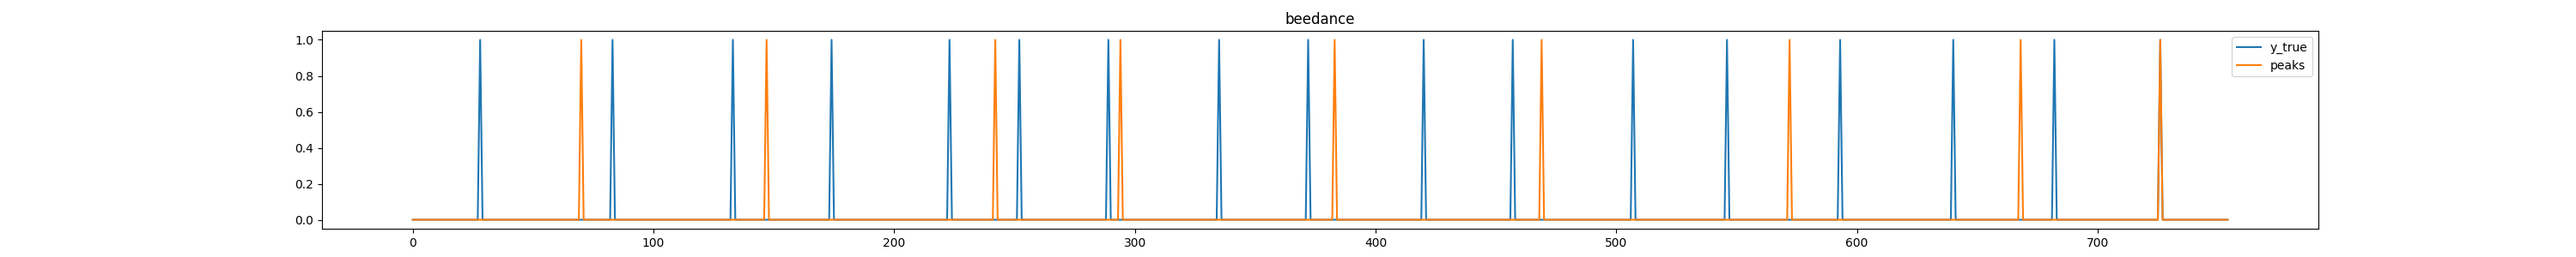
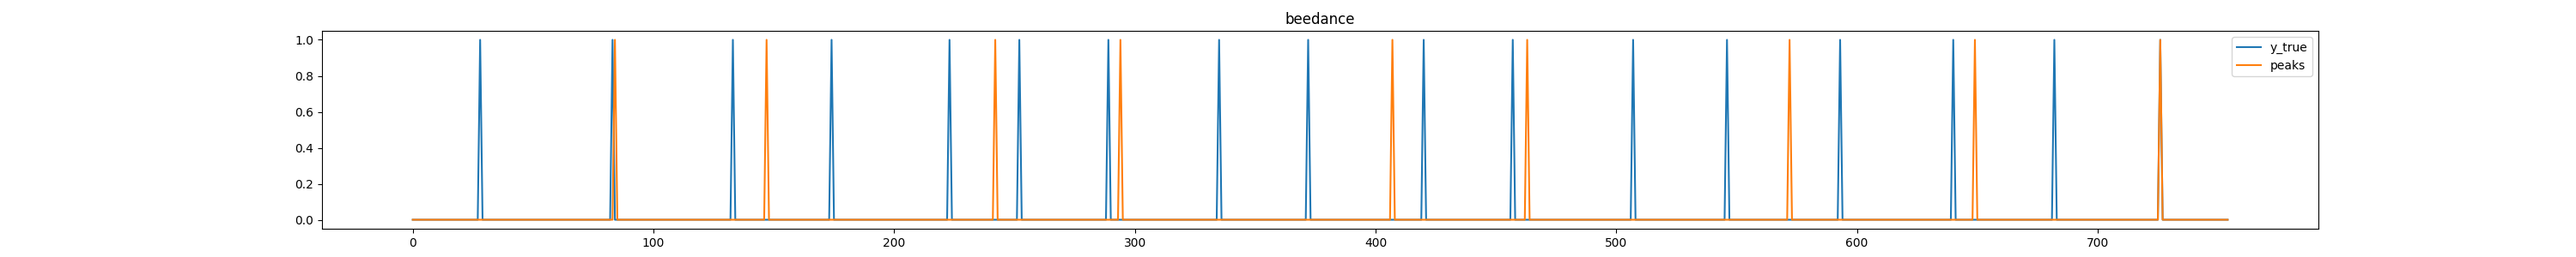
Updating normalized score

Changed region(s): [[0.589, 0.33, 0.62, 0.84], [0.217, 0.39, 0.248, 0.84]]

diff --git a/TiVaCPD/experiments.py b/TiVaCPD/experiments.py
@@ -166,6 +166,9 @@ def main():
 
             mmd_score = model.mmd_score #shift(model.mmd_score, args.p_wnd_dim)
             corr_score = model.corr_score
+            if(args.wavelet):
+                mmd_score_wave = model.mmd_score_wave
+                corr_score_wave = model.corr_score_wave
 
             print('offset value: ', model.offset)
             
@@ -197,21 +200,25 @@ def main():
             
             q3, q1 = np.percentile(mmd_score_nor, [75 ,25])
             mmd_iqr = q3 - q1
-            mmd_vote = (mmd_score_nor > (1.5 * mmd_iqr))
+            mmd_vote = (mmd_score_nor < (1.5 * mmd_iqr))
             q3, q1 = np.percentile(corr_score_nor, [75 ,25])
             corr_iqr = q3 - q1
+            corr_vote = (corr_score_nor < (1.5 * corr_iqr))
 
-            W = np.dot(corr_score_nor, mmd_score_nor) / len(corr_score_nor)
+            W = np.dot(corr_score_nor, mmd_score_nor) / (len(corr_score_nor) - 1)
+            W2 = np.cov(corr_score_nor, mmd_score_nor)[1]
             D = np.mean(abs(corr_score_nor - mmd_score_nor))
-            print('weights: ', W, D)
+            print('weights: ', W, W2, D)
 
-            combined_score_nor = np.add(mmd_score_nor, corr_score_nor)
             y_pred = mmd_score_nor
+            mmd_score_nor = y_pred
             metrics = ComputeMetrics(y_true, y_pred, args.margin)
             print("Norm DistScore:", "AUC:",np.round(metrics.auc,2), "F1:",np.round(metrics.f1,2), "Precision:", np.round(metrics.precision,2), "Recall:",np.round(metrics.recall,2))
-            y_pred = corr_score_nor
+            y_pred = corr_score_nor * corr_vote.astype(int)
+            corr_score_nor = y_pred
             metrics = ComputeMetrics(y_true, y_pred, args.margin)
             print("Norm CorrScore:", "AUC:",np.round(metrics.auc,2), "F1:",np.round(metrics.f1,2), "Precision:", np.round(metrics.precision,2), "Recall:",np.round(metrics.recall,2))
+            combined_score_nor = np.add(mmd_score_nor, corr_score_nor)
             y_pred = combined_score_nor
             metrics= ComputeMetrics(y_true, y_pred, args.margin)
             print("Norm EnsembleScore:", "AUC:", np.round(metrics.auc,2), "F1:",np.round(metrics.f1,2), "Precision:", np.round(metrics.precision,2), "Recall:",np.round(metrics.recall,2))

diff --git a/TiVaCPD/cpd_methods.py b/TiVaCPD/cpd_methods.py
@@ -446,10 +446,7 @@ class MMDATVGL_CPD():
         self.wave_ext = wave_ext #'periodic'
         self.remove_corr = True
 
-        if(wavelet):
-            self.series = preprocessing.normalize(self.series, axis=0)
-            self.series = wave_f.wavelet_t_win(self.series , wavelet = self.wave_shape, mode=self.wave_ext, width_num=3)
-            #print(f'initial feature shape: {series.shape} and after transition shape: {self.series.shape}')
+          #print(f'initial feature shape: {series.shape} and after transition shape: {self.series.shape}')
         if(self.remove_corr):
             self.r_corr_feat(self.series)
 
@@ -459,7 +456,17 @@ class MMDATVGL_CPD():
         self.corr_score = self.TVGL_(series=self.series, alpha = self.alpha_, beta =self.beta, penalty_type=self.penalty_type,
                                             slice_size=self.slice_size, overlap=self.overlap, threshold=self.threshold, max_iters=self.max_iters,
                                             data_path = self.data_path, sample = self.sample, wavelet = self.wavelet)
-
+        if(wavelet):
+            self.series = preprocessing.normalize(self.series, axis=0)
+            self.series = wave_f.wavelet_t_win(self.series , wavelet = self.wave_shape, mode=self.wave_ext, width_num=3)
+            threshold = min(threshold, .001)
+            self.mmd_score_wave = self.dynamic_windowing(p_wnd_dim, f_wnd_dim, series, threshold, alpha, kernel_type, 
+                                                    approx_type, B1, B2, B3, weights_type, l_minus, l_plus, wavelet=self.wavelet)
+            self.corr_score_wave= self.TVGL_(series=self.series, alpha = self.alpha_, beta =self.beta, penalty_type=self.penalty_type,
+                                            slice_size=self.slice_size, overlap=self.overlap, threshold=threshold, max_iters=self.max_iters,
+                                            data_path = self.data_path, sample = self.sample, wavelet = self.wavelet)
+        
+        
     def r_corr_feat(self, X, thresh=.9, print_corr_matrix=False):
         X_ = stats.zscore(X, axis=0)
         #X = (X - np.min(X))/(np.max(X) - np.min(X))

diff --git a/TiVaCPD/wavelet_util.py b/TiVaCPD/wavelet_util.py
@@ -21,8 +21,8 @@ def wavelet_t_win(data, feat_id=None, width_num = 5, wavelet='mexh', mode='smoot
             cwtmatr, freqs = pywt.cwt(ext_data, widths, wavelet) #mexh
             transform_data = np.array(cwtmatr)[:, ext_len:-ext_len]
         if(flag_s):
-            feat_vec = np.append(data, transform_data.T, axis=1)
-            #feat_vec = transform_data.T
+            #feat_vec = np.append(data, transform_data.T, axis=1)
+            feat_vec = transform_data.T
             flag_s = False
         else:
             feat_vec = np.append(feat_vec, transform_data.T, axis=1)
